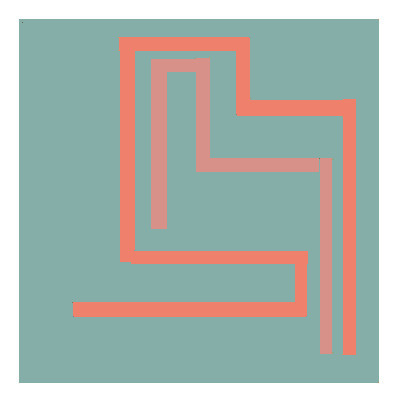
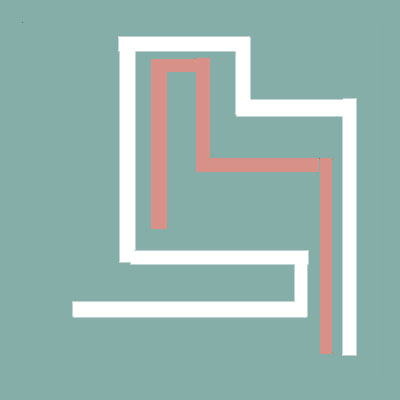
colour changes to bluered dummy

diff --git a/public/frontend/style_redblue.css b/public/frontend/style_redblue.css
@@ -1,5 +1,5 @@
 body{
-    background-color: rgb(196,207,206);
+    background-color: rgb(255,255,255);
 }
 
 .break{
@@ -23,8 +23,8 @@ body{
 }
 
 .highscores1{
-    background: rgb(196,207,206);
-    color: rgb(255,255,255);
+    background: rgb(255,255,255);
+    color: rgb(63,136,129);
     margin-left: 120px;
     width: 55%;
     font-size: 18px;
@@ -32,8 +32,8 @@ body{
 }
 
 .highscores2{
-    background: rgb(196,207,206);
-    color: rgb(255,255,255);
+    background: rgb(255,255,255);
+    color: rgb(63,136,129);
     margin-left: 80px;
     width: 55%;
     font-size: 18px;
@@ -53,7 +53,7 @@ body{
     font-size: 18px;
     margin: 0px;
     font-family: Gadugi;
-    color: rgb(255,255,255);
+    color: rgb(63,136,129);
 }
 
 .logintext{
@@ -61,11 +61,11 @@ body{
     margin: 0px;
     margin-bottom: 5px;
     font-family: Gadugi;
-    color: rgb(255,255,255);
+    color: rgb(63,136,129);
 }
 
 .main {
-    background-color: rgb(196,207,206);
+    background-color: rgb(255,255,255);
     font-family: Gadugi;
     font-size: 15px;
 }
@@ -82,6 +82,7 @@ body{
     margin: 0px;
     font-family: Gadugi;
     text-align: center;
+    color: rgb(255,255,255);
 }
 
 .no_padding {
@@ -101,7 +102,7 @@ body{
 }
 
 .space{
-    background: rgb(196,207,206);
+    background: rgb(255,255,255);
     height: 20px;
 }
 
